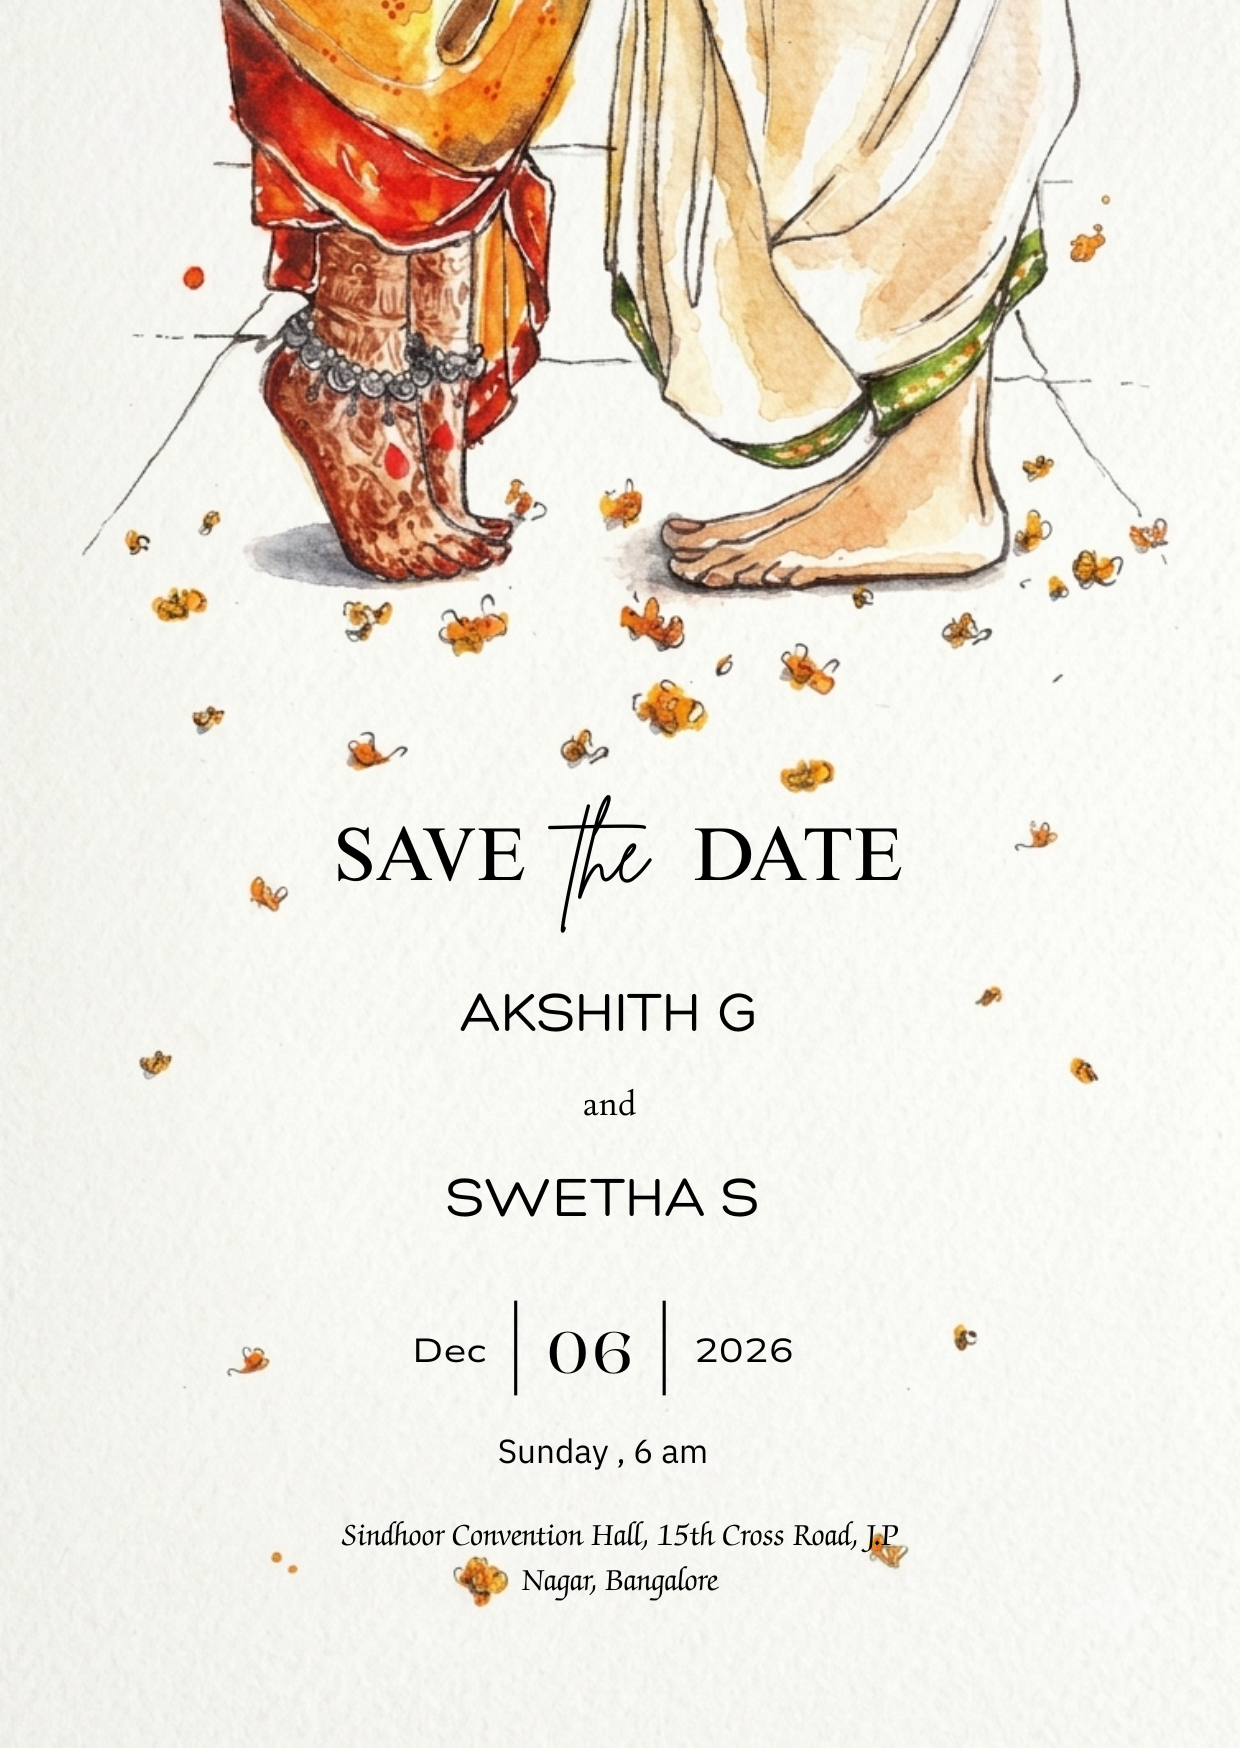
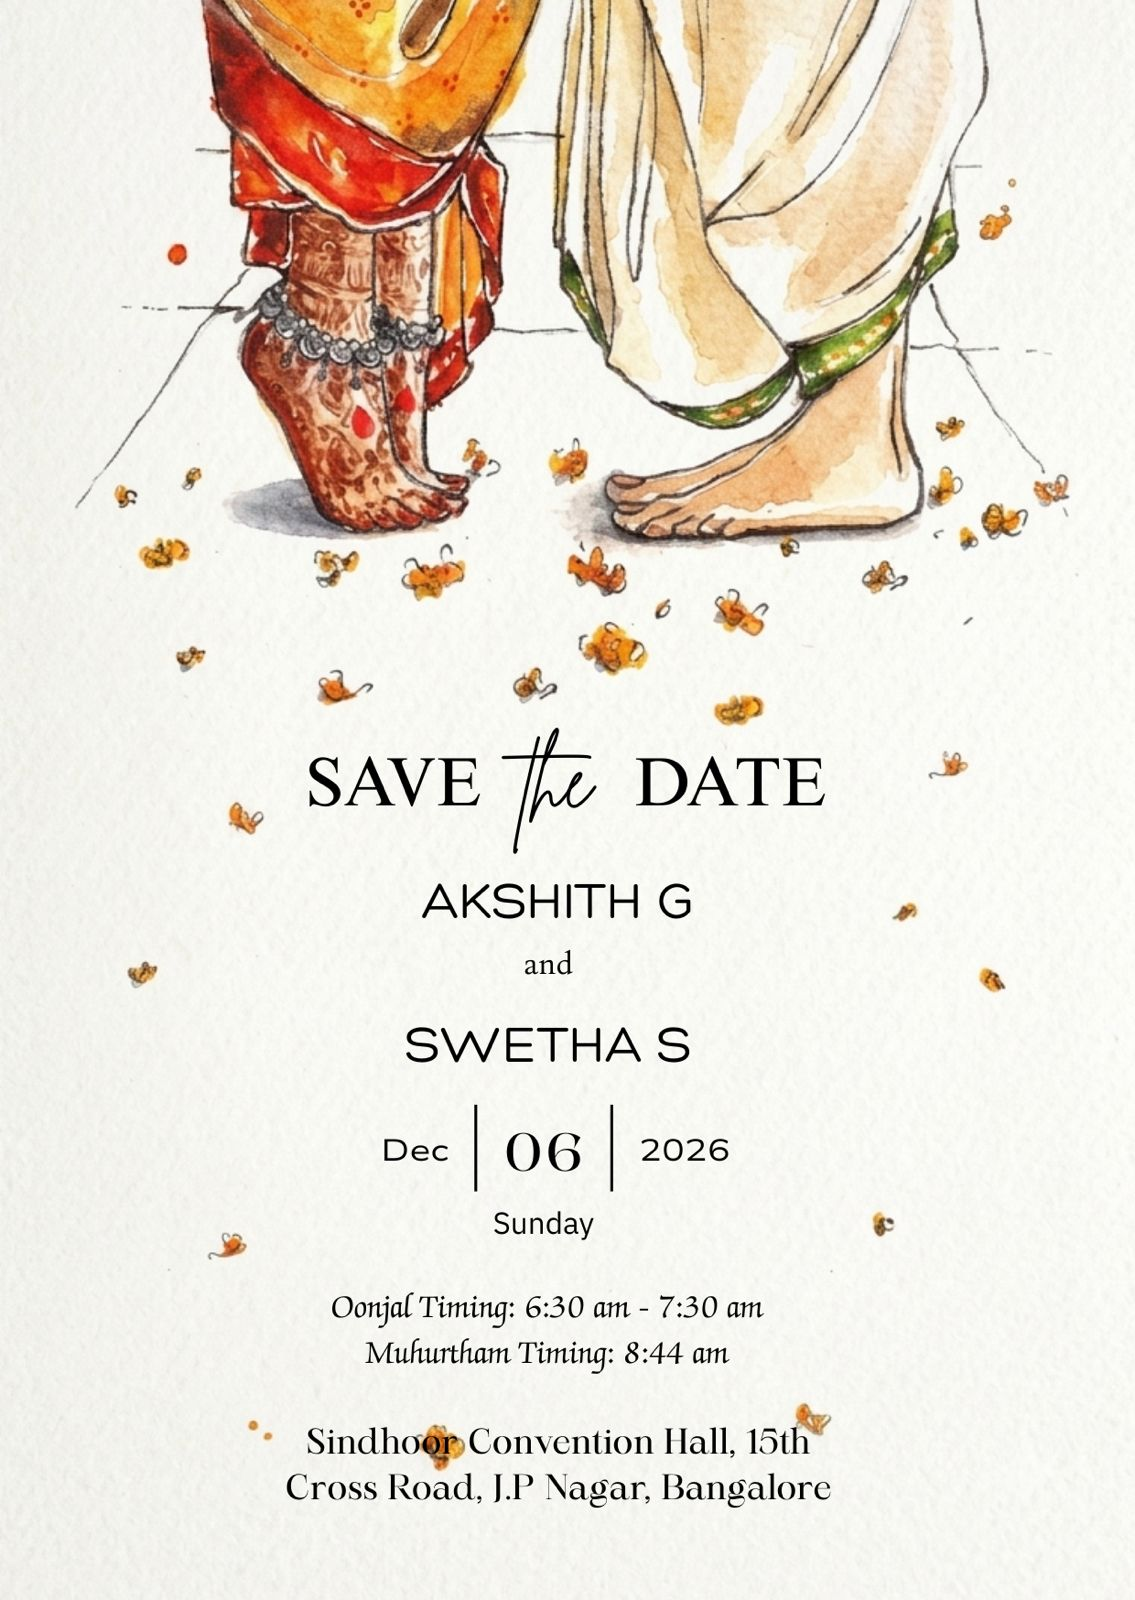
Fix/ios safari viewport (#9)
* minor change

* fix: set base path for GitHub Pages deployment

* docs: add proper README with live link and event details

* Fix broken merge: restore events prop in EventTimeline and hook order in App

* Fix iOS Safari fixed-position bug: overflow:clip on body, avoid hash-changing scroll anchor, unmount gate via React

* muhurtham image changes

* muhurtham image changes

Changed region(s): [[0.3392, 0.5312, 0.6476, 0.7812], [0.2467, 0.8125, 0.7401, 0.9375]]

diff --git a/src/App.tsx b/src/App.tsx
@@ -19,6 +19,7 @@ export default function App() {
   }, []);
 
   const [revealed, setRevealed] = useState(false);
+  const [gateVisible, setGateVisible] = useState(true);
   const [lightboxEvent, setLightboxEvent] = useState<WeddingEvent | null>(null);
   const [infoEvent, setInfoEvent] = useState<WeddingEvent | null>(null);
   const [revealedCards, setRevealedCards] = useState<Set<string>>(new Set());
@@ -30,7 +31,10 @@ export default function App() {
   }, [revealed]);
 
   useEffect(() => {
-    document.body.classList.toggle("lb-open", lightboxEvent !== null || infoEvent !== null);
+    document.body.classList.toggle(
+      "lb-open",
+      lightboxEvent !== null || infoEvent !== null,
+    );
   }, [lightboxEvent, infoEvent]);
 
   const handleRevealCard = useCallback((id: string) => {
@@ -47,7 +51,12 @@ export default function App() {
     <>
       <FallingLeaves active={revealed} />
 
-      <GateOverlay onOpen={() => setRevealed(true)} />
+      {gateVisible && (
+        <GateOverlay
+          onOpen={() => setRevealed(true)}
+          onClosed={() => setGateVisible(false)}
+        />
+      )}
 
       {revealed && (
         <main id="invitation">
@@ -74,4 +83,3 @@ export default function App() {
     </>
   );
 }
-

diff --git a/src/components/gate/GateOverlay.tsx b/src/components/gate/GateOverlay.tsx
@@ -5,9 +5,10 @@ const MARIGOLD_COUNT = 20;
 
 interface Props {
   onOpen: () => void;
+  onClosed: () => void;
 }
 
-export default function GateOverlay({ onOpen }: Props) {
+export default function GateOverlay({ onOpen, onClosed }: Props) {
   const openedRef = useRef(false);
   const overlayRef = useRef<HTMLDivElement>(null);
   const gateRef = useRef<HTMLDivElement>(null);
@@ -28,7 +29,7 @@ export default function GateOverlay({ onOpen }: Props) {
       onOpen();
     }, 1200);
 
-    setTimeout(() => overlay.remove(), 2300);
+    setTimeout(onClosed, 2300);
   }
 
   return (

diff --git a/src/index.css b/src/index.css
@@ -40,12 +40,14 @@ body {
   background: var(--cream);
   color: var(--ink);
   overflow-x: hidden;
+  overflow-x: clip; /* avoids Safari's fixed-relative-to-body quirk triggered by overflow:hidden */
   -webkit-text-size-adjust: 100%;
   text-size-adjust: 100%;
 }
 
 body.locked {
   overflow: hidden;
+  overflow: clip;
   height: 100vh;
   height: 100dvh; /* accounts for mobile browser chrome */
 }
@@ -1141,6 +1143,7 @@ body.revealed #invitation {
 
 body.lb-open {
   overflow: hidden;
+  overflow: clip;
 }
 
 /* Scratch coating canvas (shared by the lightbox card) */

diff --git a/src/components/hero/Hero.tsx b/src/components/hero/Hero.tsx
@@ -70,6 +70,13 @@ export default function Hero() {
         className={`scroll-cue ${cue.cls}`}
         href="#events"
         aria-label="Scroll to events"
+        onClick={(e) => {
+          // Avoid overwriting the guest-token hash used for routing
+          e.preventDefault();
+          document
+            .getElementById("events")
+            ?.scrollIntoView({ behavior: "smooth" });
+        }}
       >
         <span className="chev" />
       </a>

diff --git a/styles.css b/styles.css
@@ -32,10 +32,12 @@ body {
   background: var(--cream);
   color: var(--ink);
   overflow-x: hidden;
+  overflow-x: clip;
 }
 
 body.locked {
   overflow: hidden;
+  overflow: clip;
   height: 100vh;
 }
 
@@ -1081,6 +1083,7 @@ body.revealed #invitation {
 
 body.lb-open {
   overflow: hidden;
+  overflow: clip;
 }
 
 /* Scratch coating canvas (shared by the lightbox card) */
